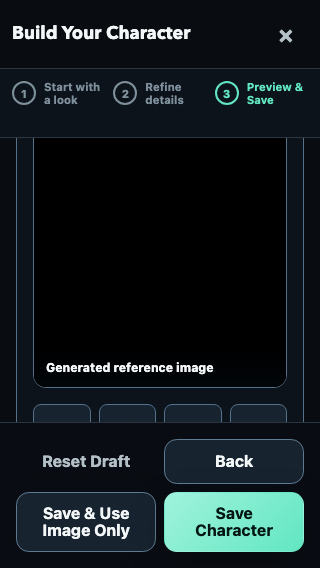
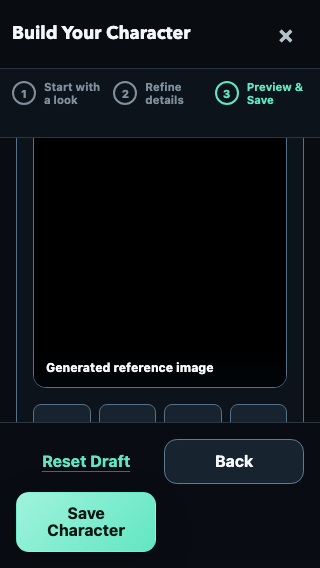
feat(web): one save in the character builder
Item 30 of the UX plan. The footer carried two saves whose labels never said
how they differed — `Save Character` and `Save & Use Image Only` — plus
parenthetical qualifiers the button grew when a preview went stale, `Save
Character (prompt only)` and `(uploaded image)`.

There is now one `Save Character`. What a save produces — the described
character with its generated portrait, or the uploaded image on its own —
becomes a choice inside naming, where each option gets a sentence saying what
it keeps and what it gives up. The stale-preview case keeps its explanation
where it already was: the footer's status line.

The footer also loses a permanently disabled `Back` at step one and gives
`Reset Draft` the link variant, so a 320px viewport shows three controls
where it used to show five.

Changed region(s): [[0.0312, 0.868, 0.9688, 0.9877], [0.125, 0.7782, 0.4062, 0.838]]

diff --git a/apps/web/src/features/character-builder/CharacterBuilderPanel.tsx b/apps/web/src/features/character-builder/CharacterBuilderPanel.tsx
@@ -127,13 +127,6 @@ const buildReferenceGenerationDisclosure = ({
   return `${optimizerContact}${provider}${model} creates the image. This may use provider credits. The result is stored in your local data directory. Upload and Save without generation do not contact image or optimizer providers.`;
 };
 
-const characterSaveLabel = (state: CharacterBuilderState): string => {
-  if (!state.preview?.stale) return 'Save Character';
-  return state.uploadedReference
-    ? 'Save Character (uploaded image)'
-    : 'Save Character (prompt only)';
-};
-
 export const CharacterBuilderPanel = ({
   open,
   state,
@@ -178,8 +171,7 @@ export const CharacterBuilderPanel = ({
   const resetButtonRef = useRef<HTMLButtonElement>(null);
   const regenerateButtonRef = useRef<HTMLButtonElement>(null);
   const saveButtonRef = useRef<HTMLButtonElement>(null);
-  const imageOnlySaveButtonRef = useRef<HTMLButtonElement>(null);
-  const [namingMode, setNamingMode] = useState<'default' | 'image-only' | null>(null);
+  const [namingOpen, setNamingOpen] = useState(false);
   const [activeStep, setActiveStep] = useState<CharacterBuilderStep>(1);
   const status = operationLabel(state);
   const generationBusy = isGenerationBusy(state);
@@ -197,7 +189,6 @@ export const CharacterBuilderPanel = ({
   const uploadedReference = state.uploadedReference;
   const previewCapabilityAvailable = generationAvailable && (!uploadedReference || editAvailable);
   const heroReference = state.preview?.asset ?? uploadedReference?.asset ?? null;
-  const saveLabel = characterSaveLabel(state);
   const referenceGenerationDisclosure = buildReferenceGenerationDisclosure({
     generationAvailable,
     referenceImageProvider,
@@ -210,7 +201,7 @@ export const CharacterBuilderPanel = ({
       <OverlayPanel
         open={open}
         onClose={() => {
-          setNamingMode(null);
+          setNamingOpen(false);
           setActiveStep(1);
           onClose();
         }}
@@ -254,19 +245,20 @@ export const CharacterBuilderPanel = ({
             </span>
             <Button
               ref={resetButtonRef}
-              variant="quiet"
+              variant="link"
               disabled={operationLocked || state.phase === 'restoring' || resetBusy}
               onClick={onRequestReset}
             >
               Reset Draft
             </Button>
-            <Button
-              variant="secondary"
-              disabled={activeStep === 1}
-              onClick={() => setActiveStep((step) => (step === 3 ? 2 : 1))}
-            >
-              Back
-            </Button>
+            {activeStep > 1 ? (
+              <Button
+                variant="secondary"
+                onClick={() => setActiveStep((step) => (step === 3 ? 2 : 1))}
+              >
+                Back
+              </Button>
+            ) : null}
             {activeStep < 3 ? (
               <Button
                 variant="primary"
@@ -275,39 +267,30 @@ export const CharacterBuilderPanel = ({
                 Continue
               </Button>
             ) : null}
-            {uploadedReference ? (
-              <Button
-                ref={imageOnlySaveButtonRef}
-                variant="secondary"
-                busy={saving}
-                disabled={
-                  !canSaveImageOnly || state.uploadPending || generationBusy || operationLocked
-                }
-                aria-disabled={Boolean(saveBlockedReason) || undefined}
-                aria-describedby={
-                  saveBlockedReason ? 'character-builder-save-blocked-reason' : undefined
-                }
-                onClick={() => {
-                  if (!saveBlockedReason) setNamingMode('image-only');
-                }}
-              >
-                Save &amp; Use Image Only
-              </Button>
-            ) : null}
+            {/*
+             * One save. What a save produces — the described character, or the uploaded image on
+             * its own — is a choice inside naming, where the two options can be explained, rather
+             * than two buttons whose labels never said how they differed.
+             */}
             <Button
               ref={saveButtonRef}
               variant={activeStep === 3 ? 'primary' : 'quiet'}
               busy={saving}
-              disabled={!canSave || state.uploadPending || generationBusy || operationLocked}
+              disabled={
+                (!canSave && !canSaveImageOnly) ||
+                state.uploadPending ||
+                generationBusy ||
+                operationLocked
+              }
               aria-disabled={Boolean(saveBlockedReason) || undefined}
               aria-describedby={
                 saveBlockedReason ? 'character-builder-save-blocked-reason' : undefined
               }
               onClick={() => {
-                if (!saveBlockedReason) setNamingMode('default');
+                if (!saveBlockedReason) setNamingOpen(true);
               }}
             >
-              {editingCharacterName ? 'Save Changes' : saveLabel}
+              {editingCharacterName ? 'Save Changes' : 'Save Character'}
             </Button>
           </div>
         }
@@ -453,23 +436,19 @@ export const CharacterBuilderPanel = ({
       </OverlayPanel>
 
       <CharacterNameDialog
-        key={`${namingMode ?? 'closed'}:${characterNameLocked ? 'locked' : 'editable'}`}
-        open={open && namingMode !== null}
-        initialName={
-          namingMode === 'image-only' ? suggestedImageOnlyCharacterName : suggestedCharacterName
-        }
-        imageOnly={namingMode === 'image-only'}
-        retainsReferenceAsset={Boolean(
-          namingMode === 'image-only' || previewIsUsable || uploadedReference,
-        )}
+        key={`${namingOpen ? 'open' : 'closed'}:${characterNameLocked ? 'locked' : 'editable'}`}
+        open={open && namingOpen}
+        initialName={canSave ? suggestedCharacterName : suggestedImageOnlyCharacterName}
+        imageOnlyInitialName={suggestedImageOnlyCharacterName}
+        canSaveUploadedImageOnly={canSaveImageOnly && canSave}
+        retainsReferenceAsset={Boolean(previewIsUsable || uploadedReference)}
         locked={characterNameLocked}
-        returnFocusRef={namingMode === 'image-only' ? imageOnlySaveButtonRef : saveButtonRef}
-        onCancel={() => setNamingMode(null)}
-        onSubmit={(name) => {
-          const requestedMode = namingMode;
-          setNamingMode(null);
-          if (requestedMode === 'image-only') onSaveImageOnly(name);
-          else if (requestedMode === 'default') onSave(name);
+        returnFocusRef={saveButtonRef}
+        onCancel={() => setNamingOpen(false)}
+        onSubmit={(name, mode) => {
+          setNamingOpen(false);
+          if (mode === 'image-only' || !canSave) onSaveImageOnly(name);
+          else onSave(name);
         }}
       />
 

diff --git a/apps/web/src/features/character-builder/CharacterNameDialog.tsx b/apps/web/src/features/character-builder/CharacterNameDialog.tsx
@@ -1,22 +1,38 @@
 import { ASSET_NAME_MAX_LENGTH, containsMeaningfulText, normalizeWhitespace } from '@studio/domain';
 import { useId, useRef, useState, type FormEvent, type RefObject } from 'react';
-import { Button, OverlayPanel, StatusNotice, TextField } from '../../ui';
+import { Button, OverlayPanel, SegmentedControl, StatusNotice, TextField } from '../../ui';
+
+/** What a save produces: the described character, or the uploaded image on its own. */
+export type CharacterSaveMode = 'default' | 'image-only';
+
+const SAVE_MODE_OPTIONS = [
+  { value: 'default', label: 'Described character' },
+  { value: 'image-only', label: 'Uploaded image only' },
+] as const satisfies readonly { value: CharacterSaveMode; label: string }[];
+
+const SAVE_MODE_EXPLANATION: Readonly<Record<CharacterSaveMode, string>> = {
+  default: 'Keeps your description and its generated portrait, so you can edit it again later.',
+  'image-only': 'Keeps the image you uploaded and nothing else. There is no description to edit.',
+};
 
 export interface CharacterNameDialogProps {
   readonly open: boolean;
   readonly initialName: string;
-  readonly imageOnly?: boolean;
+  /** Offered only when there is an uploaded image, which is the only thing the choice is about. */
+  readonly canSaveUploadedImageOnly?: boolean;
+  readonly imageOnlyInitialName?: string;
   readonly retainsReferenceAsset?: boolean;
   readonly locked?: boolean;
   readonly returnFocusRef?: RefObject<HTMLElement | null>;
   readonly onCancel: () => void;
-  readonly onSubmit: (name: string) => void;
+  readonly onSubmit: (name: string, mode: CharacterSaveMode) => void;
 }
 
 export const CharacterNameDialog = ({
   open,
   initialName,
-  imageOnly = false,
+  canSaveUploadedImageOnly = false,
+  imageOnlyInitialName,
   retainsReferenceAsset = false,
   locked = false,
   returnFocusRef,
@@ -26,6 +42,7 @@ export const CharacterNameDialog = ({
   const formId = useId();
   const fieldRef = useRef<HTMLInputElement>(null);
   const [name, setName] = useState(initialName);
+  const [mode, setMode] = useState<CharacterSaveMode>('default');
   const [attempted, setAttempted] = useState(false);
   const normalizedName = normalizeWhitespace(name, ASSET_NAME_MAX_LENGTH);
   const nameError =
@@ -33,8 +50,16 @@ export const CharacterNameDialog = ({
       ? 'Enter a useful character name.'
       : undefined;
 
+  const chooseMode = (next: CharacterSaveMode) => {
+    setMode(next);
+    // The suggested name describes what is being saved, so it follows the choice unless edited.
+    if (name === initialName || name === imageOnlyInitialName)
+      setName(next === 'image-only' ? (imageOnlyInitialName ?? initialName) : initialName);
+  };
+
   const cancel = () => {
     setAttempted(false);
+    setMode('default');
     onCancel();
   };
 
@@ -42,7 +67,7 @@ export const CharacterNameDialog = ({
     event.preventDefault();
     setAttempted(true);
     if (!containsMeaningfulText(normalizedName)) return;
-    onSubmit(normalizedName);
+    onSubmit(normalizedName, mode);
   };
 
   return (
@@ -66,11 +91,23 @@ export const CharacterNameDialog = ({
             Cancel
           </Button>
           <Button type="submit" form={formId} variant="primary">
-            {locked ? 'Resume Save' : imageOnly ? 'Save & Use Character' : 'Save Character'}
+            {locked ? 'Resume Save' : 'Save Character'}
           </Button>
         </div>
       }
     >
+      {canSaveUploadedImageOnly && !locked ? (
+        <div css={{ display: 'grid', gap: '0.5rem', marginBlockEnd: '1rem' }}>
+          <SegmentedControl
+            columns={SAVE_MODE_OPTIONS.length}
+            label="What to save"
+            value={mode}
+            options={SAVE_MODE_OPTIONS}
+            onChange={chooseMode}
+          />
+          <small>{SAVE_MODE_EXPLANATION[mode]}</small>
+        </div>
+      ) : null}
       <form id={formId} noValidate onSubmit={submit}>
         <TextField
           ref={fieldRef}

diff --git a/e2e/studio-character-builder.spec.ts b/e2e/studio-character-builder.spec.ts
@@ -40,12 +40,17 @@ const chooseAdultCharacterDirection = async (
 const confirmCharacterName = async (
   page: Page,
   name: string,
-  submitLabel: 'Save Character' | 'Save & Use Character' = 'Save Character',
+  saveMode: 'default' | 'image-only' = 'default',
 ): Promise<void> => {
   const dialog = page.getByRole('dialog', { name: 'Name your character' });
   await expect(dialog).toBeVisible();
+  if (saveMode === 'image-only') {
+    const choice = dialog.getByRole('group', { name: 'What to save' });
+    if ((await choice.count()) > 0)
+      await choice.getByRole('button', { name: 'Uploaded image only' }).click();
+  }
   await dialog.getByRole('textbox', { name: /Character name/u }).fill(name);
-  await dialog.getByRole('button', { name: submitLabel, exact: true }).click();
+  await dialog.getByRole('button', { name: 'Save Character', exact: true }).click();
 };
 
 const openConstraints = async (page: Page): Promise<void> => {
@@ -229,13 +234,13 @@ test('image-only upload saves and preloads without starting AI, then appears in 
   await expect(
     dialog.getByText('Uploaded reference — no generated preview', { exact: true }),
   ).toBeVisible();
-  await expect(dialog.getByRole('button', { name: 'Save & Use Image Only' })).toBeEnabled();
+  await expect(dialog.getByRole('button', { name: 'Save Character' })).toBeEnabled();
   expect(network.referenceWorkflowCalls).toEqual(['upload']);
   const uploaded = network.referenceImageUploads[0];
   expect(uploaded).toBeDefined();
 
-  await dialog.getByRole('button', { name: 'Save & Use Image Only' }).click();
-  await confirmCharacterName(page, 'Portrait Coach', 'Save & Use Character');
+  await dialog.getByRole('button', { name: 'Save Character' }).click();
+  await confirmCharacterName(page, 'Portrait Coach', 'image-only');
   await expect(dialog).toBeHidden();
   expect((await readBrowserState(page)).connections).toEqual([]);
 
@@ -349,7 +354,6 @@ test('uploaded draft references restore across reload and Detach does not contac
 
   await dialog.getByRole('button', { name: 'Detach uploaded character reference' }).click();
   await expect(dialog.getByAltText('Current uploaded character reference')).toHaveCount(0);
-  await expect(dialog.getByRole('button', { name: 'Save & Use Image Only' })).toHaveCount(0);
   await dialog.getByRole('button', { name: 'Close character builder' }).click();
   await expect(dialog).toBeHidden();
   await page.reload();
@@ -436,8 +440,8 @@ test('Generate Preview always optimizes, and stale form edits detach the image f
   await constraints.fill('Keep the enamel field badge visible.');
   await page.getByRole('button', { name: /^Preview(?: |$)/u }).click();
   await expect(page.getByText(/Regenerate to attach an image/u)).toBeVisible();
-  await expect(page.getByRole('button', { name: 'Save Character (prompt only)' })).toBeEnabled();
-  await page.getByRole('button', { name: 'Save Character (prompt only)' }).click();
+  await expect(page.getByRole('button', { name: 'Save Character' })).toBeEnabled();
+  await page.getByRole('button', { name: 'Save Character' }).click();
   await confirmCharacterName(page, 'Copper Presenter');
   await expect(page.getByRole('dialog', { name: 'Build Your Character' })).toBeHidden();
 

diff --git a/apps/web/src/features/character-builder/CharacterNameDialog.test.tsx b/apps/web/src/features/character-builder/CharacterNameDialog.test.tsx
@@ -1,6 +1,6 @@
 // @vitest-environment jsdom
 
-import { cleanup, render, screen } from '@testing-library/react';
+import { cleanup, render, screen, within } from '@testing-library/react';
 import userEvent from '@testing-library/user-event';
 import type { ComponentProps } from 'react';
 import { afterEach, describe, expect, it, vi } from 'vitest';
@@ -39,19 +39,49 @@ describe('CharacterNameDialog', () => {
 
     await user.type(name, '  Field   Coach  ');
     await user.click(screen.getByRole('button', { name: 'Save Character' }));
-    expect(onSubmit).toHaveBeenCalledWith('Field Coach');
+    expect(onSubmit).toHaveBeenCalledWith('Field Coach', 'default');
   });
 
-  it('uses image-only copy and freezes the original name while resuming a journaled save', () => {
+  it('offers what to save only when an uploaded image gives the choice meaning', async () => {
+    const user = userEvent.setup();
     const { onSubmit } = renderDialog({
-      imageOnly: true,
+      canSaveUploadedImageOnly: true,
+      imageOnlyInitialName: 'Uploaded Character 01',
+    });
+
+    const choice = screen.getByRole('group', { name: 'What to save' });
+    expect(screen.getByRole('textbox', { name: /Character name/u })).toHaveValue(
+      'Documentary Presenter 01',
+    );
+    expect(screen.getByText(/Keeps your description and its generated portrait/i)).toBeVisible();
+
+    await user.click(within(choice).getByRole('button', { name: 'Uploaded image only' }));
+    expect(screen.getByText(/Keeps the image you uploaded and nothing else/i)).toBeVisible();
+    // The suggestion follows the choice, because it describes what is about to be saved.
+    expect(screen.getByRole('textbox', { name: /Character name/u })).toHaveValue(
+      'Uploaded Character 01',
+    );
+
+    await user.click(screen.getByRole('button', { name: 'Save Character' }));
+    expect(onSubmit).toHaveBeenCalledWith('Uploaded Character 01', 'image-only');
+  });
+
+  it('does not offer a choice when there is no uploaded image behind it', () => {
+    renderDialog();
+    expect(screen.queryByRole('group', { name: 'What to save' })).not.toBeInTheDocument();
+  });
+
+  it('freezes the original name and the mode while resuming a journaled save', () => {
+    const { onSubmit } = renderDialog({
+      canSaveUploadedImageOnly: true,
       locked: true,
       initialName: 'Portrait Coach',
     });
 
     expect(screen.getByRole('textbox', { name: /Character name/u })).toBeDisabled();
+    expect(screen.queryByRole('group', { name: 'What to save' })).not.toBeInTheDocument();
     screen.getByRole('button', { name: 'Resume Save' }).click();
-    expect(onSubmit).toHaveBeenCalledWith('Portrait Coach');
+    expect(onSubmit).toHaveBeenCalledWith('Portrait Coach', 'default');
   });
 
   it('distinguishes prompt-only save from retained local reference bytes', () => {

diff --git a/apps/web/src/features/character-builder/styles.ts b/apps/web/src/features/character-builder/styles.ts
@@ -27,7 +27,7 @@ export const characterBuilderPreviewActionsStyles = (theme: Theme): CSSObject =>
 export const characterBuilderFooterStyles = (theme: Theme): CSSObject => ({
   width: '100%',
   display: 'grid',
-  gridTemplateColumns: 'minmax(0, 1fr) repeat(5, auto)',
+  gridTemplateColumns: 'minmax(0, 1fr) repeat(3, auto)',
   alignItems: 'center',
   gap: theme.space.sm,
   paddingBlockEnd: 'env(safe-area-inset-bottom)',
